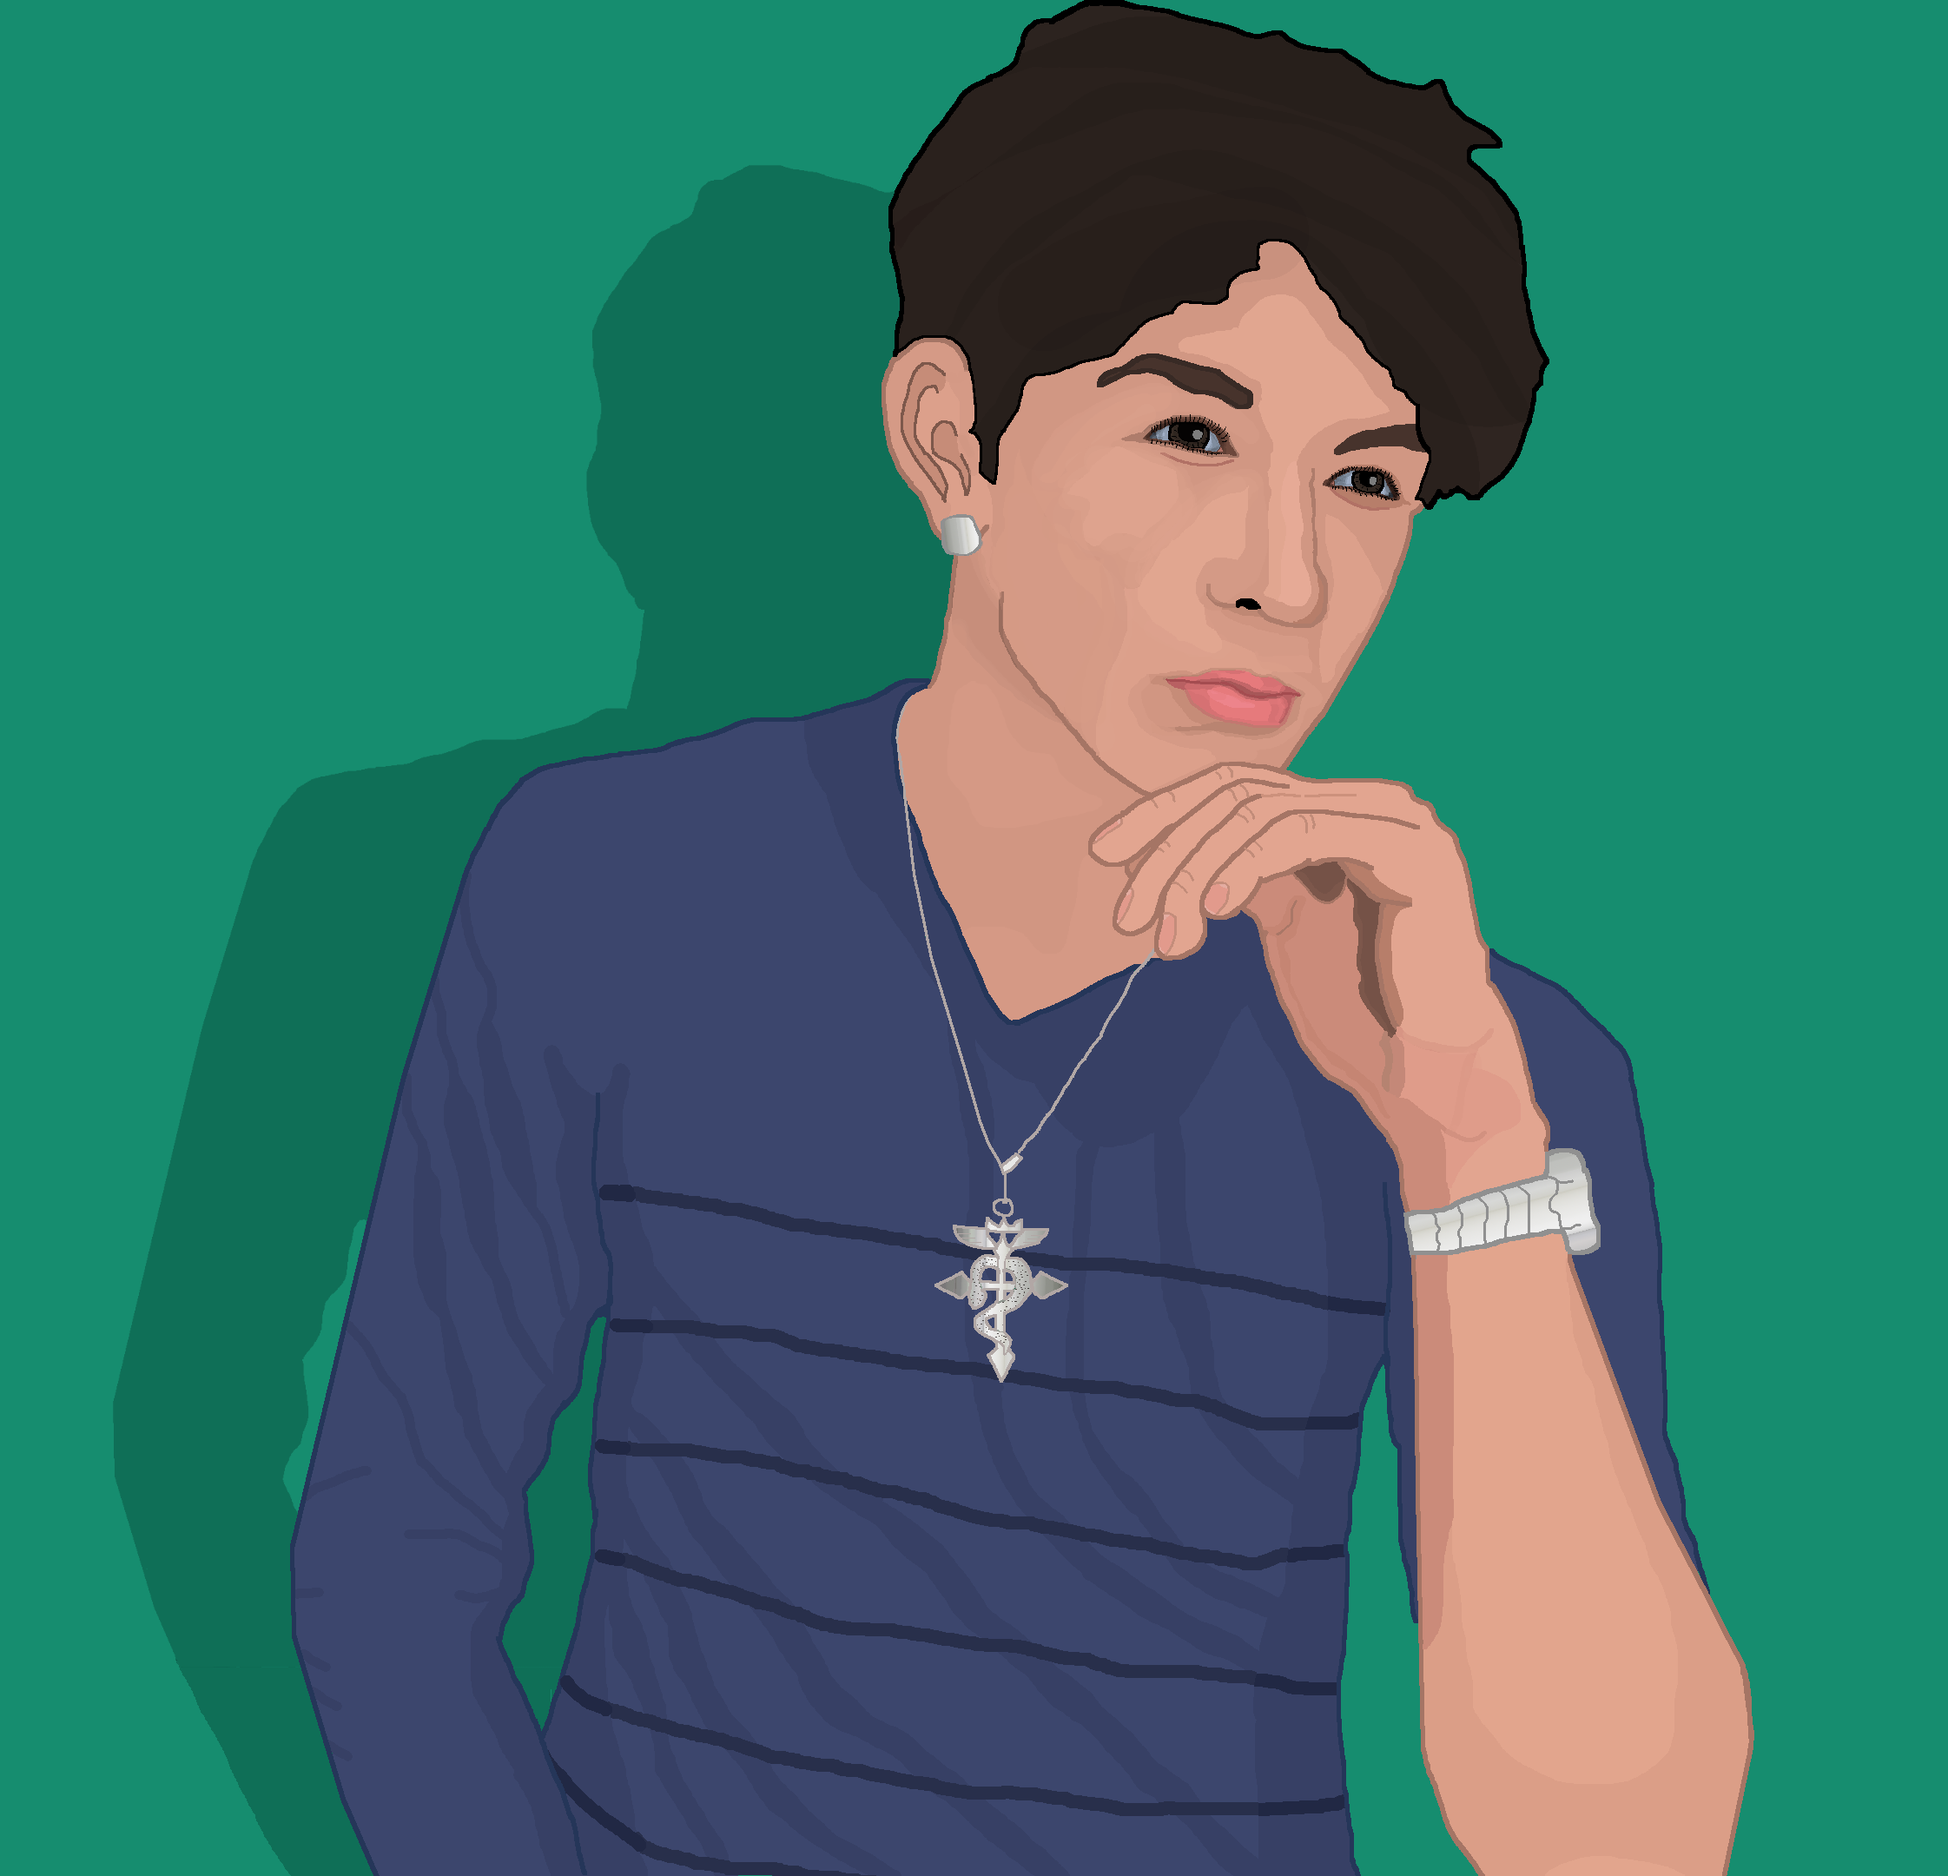
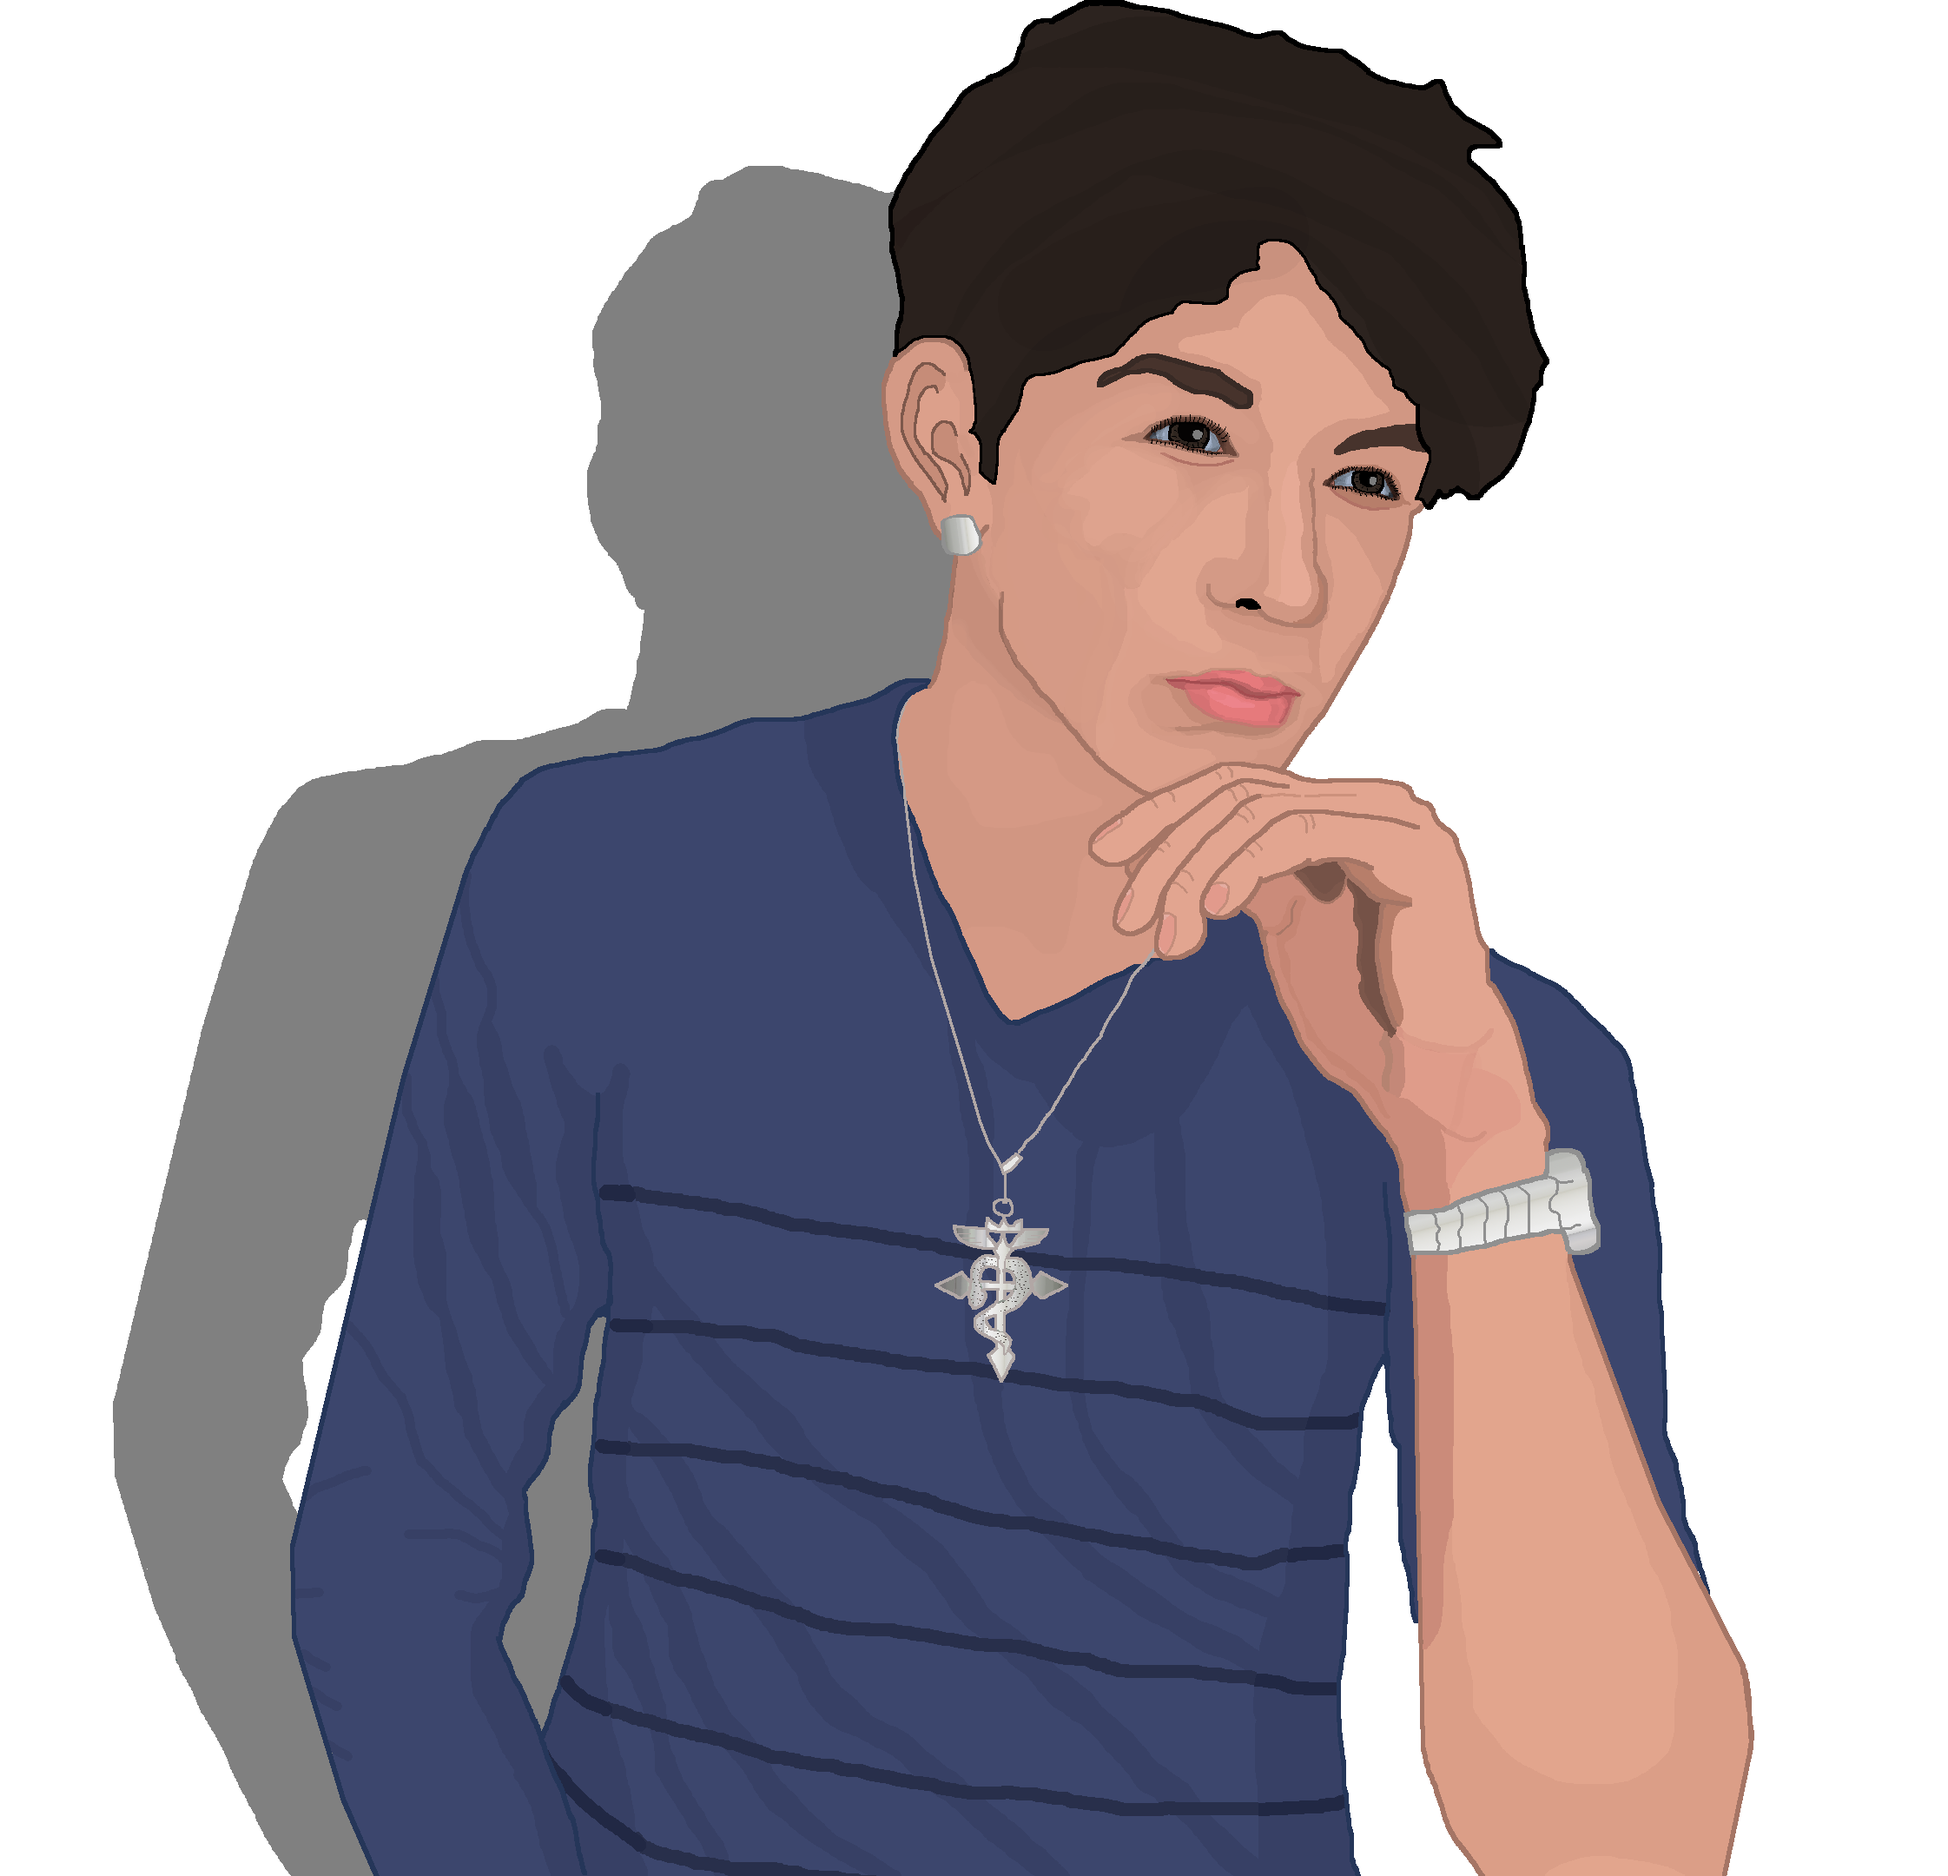
Change image background, FIXME colours light mode

diff --git a/styles.css b/styles.css
@@ -6,14 +6,7 @@
 }
 
 :root {
-    /*
-    --color-dark : #03045e;
-    --color-primary : #0077b6;
-    --color-secondary : #00b4d8;
-    --color-accent : #90e0ef;
-    --color-light : #caf0f8;
-    */
-    --color-dark : #30323D;
+    --color-background : #30323D;
     --color-primary : #4D5061;
     --color-secondary : #5C80BC;
     --color-accent : #E8C547;
@@ -26,7 +19,7 @@
 }
 
 html {
-    background-color: var(--color-dark);
+    background-color: var(--color-background);
     margin: auto;
     font-weight: 600;
     overflow: none;
@@ -35,7 +28,7 @@ html {
 .nav {
     min-width: max-content;
     width: 100%;
-    background-color: var(--color-dark) ;
+    background-color: var(--color-background) ;
     color: var(--color-accent);
     justify-self: center;
 }
@@ -72,8 +65,7 @@ header {
 }
 
 #btn-theme {
-    background-color: var(--color-dark);
-    text-shadow: 2px 0px 10px var(--color-secondary);
+    background-color: var(--color-background);
     color: var(--color-accent);
     border: none;
     position: absolute;
@@ -81,9 +73,16 @@ header {
     padding: .4em;
     border-radius: 100%;
     text-align: center;
-    right: 0;
+    right: 1%;
     top: 50%;
     transform: translateY(-50%);
+    transition: .25s;
+}
+
+#btn-theme:hover {
+    cursor: pointer;
+    transition: .25s;
+    font-size: large;
 }
 
 .main-container {
@@ -102,19 +101,19 @@ header {
 }
 
 .intro h2 {
-    color: var(--color-light);
+    color: var(--color-secondary);
     font-size: var(--font-h2);
     margin: .5em;
     margin-bottom: 2em;
 }
 
-.img {
+.img-me {
     max-width: 100%;
     max-height: 400px;
     height: auto;
-    background-color: #222;
-    border-radius: 100%;
     color: transparent;
+    border-bottom: 4px solid var(--color-accent);
+    border-radius: 20px 0px 0px 400px;
 }
 
 .dynamic-msg {
@@ -211,9 +210,8 @@ header {
     transform: scale(1.1);
     transition: .25s;
     background-color: var(--color-accent);
-    border: 1px solid var(--color-accent);
-    color: var(--color-dark);
-    filter: invert(1);
+    border: 1px solid var(--color-background);
+    color: var(--color-background);
 }
 
 .projects--card:hover {
@@ -224,7 +222,7 @@ header {
 .footer {
     width: 100%;
     text-align: center;
-    background-color: var(--color-dark);
+    background-color: var(--color-background);
     padding: .5em; 
 }
 

diff --git a/script.js b/script.js
@@ -62,17 +62,19 @@ let canLightTheme = true;
 
 const changeMode = () => {
     if (canLightTheme){
-        document.documentElement.style.setProperty('--color-accent', '#30323d');
-        document.documentElement.style.setProperty('--color-dark', '#cdd1c4');
-        document.documentElement.style.setProperty('--color-light', '#4d5061');
-        document.documentElement.style.setProperty('--color-primary', '#5c80bc');
+        document.documentElement.style.setProperty('--color-accent', '#ffffff');
+        document.documentElement.style.setProperty('--color-background', '#73C2EA');
+        document.documentElement.style.setProperty('--color-light', '#26547c');
+        document.documentElement.style.setProperty('--color-primary', '#06d6a0');
+        document.documentElement.style.setProperty('--color-secondary', '#535353');
         canLightTheme = false;
         document.querySelector("#btn-theme > i").classList.replace("fa-moon","fa-sun")
     } else {
         document.documentElement.style.setProperty('--color-accent', '#e8c547');
-        document.documentElement.style.setProperty('--color-dark', '#30323d');
+        document.documentElement.style.setProperty('--color-background', '#30323d');
         document.documentElement.style.setProperty('--color-light', '#cdd1c4');
         document.documentElement.style.setProperty('--color-primary', '#4d5061');
+        document.documentElement.style.setProperty('--color-secondary', '#5c80bc');
         canLightTheme = true;
         document.querySelector("#btn-theme > i").classList.replace("fa-sun","fa-moon")
     }

diff --git a/index.html b/index.html
@@ -17,10 +17,10 @@
                 <a class="nav--item" href="#contact">Contact</a>
             </ul>
         </nav>
-                <button id="btn-theme" class="btn"><i class="fas fa-moon"></i></button>
+                <button id="btn-theme"><i class="fas fa-moon"></i></button>
     </header>
     <main class="main-container">
-        <img class="img" src="./img/img.png" alt="">
+        <img class="img-me" src="./img/img.png" alt="">
         <div class="text">
 
             <section class="intro">
